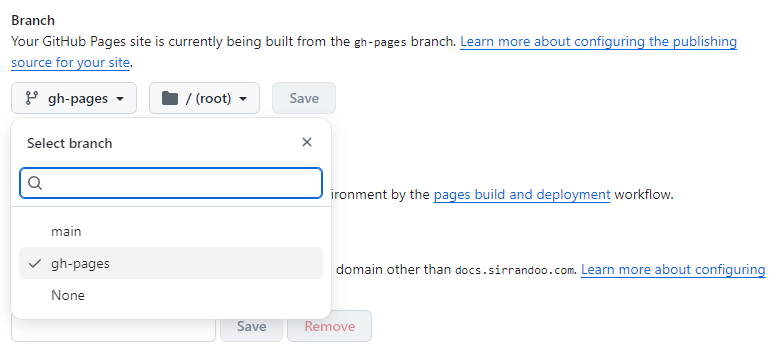
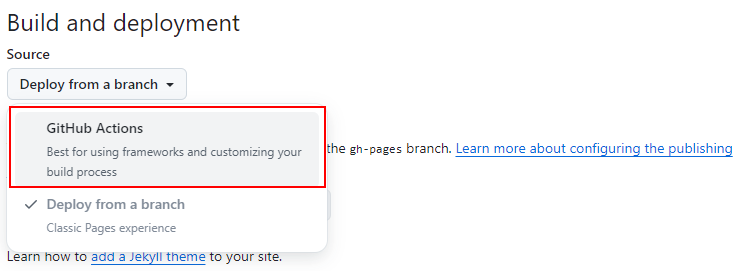
Reverted changes in last commit.
Last commit referenced changes made to the itemlist site's workflow, but these have since been reverted in favor of a less scuffed workflow. This "reversion" still requires users to properly configure their site.

diff --git a/itemlist.md b/itemlist.md
@@ -75,10 +75,13 @@ Next we'll be ensuring the item list is pulling the right files for the site. In
 need to navigate to the `Pages` section in the list of pages on the left.
 ![Pages settings in list]({{- "/assets/itemlist/pages_settings.png" | relative_url -}})
 
-Once we're in the pages settings, we can then look at the `Source` setting to ensure it's pulling from the
-`gh-pages` branch.
+Once we're in the pages settings, we can then look at the `Source` setting to ensure it's changed to the
+"GitHub Actions" option. The reason being is that the site automatically publishes itself when you change
+something, but if it were set to "Deploy from a branch," GitHub would automatically build the site for
+you, which doesn't support some things the site requires. You will always get an error about the theme
+the site uses ("Type on Strap") being missing, but that's entirely because GitHub doesn't download it.
 
-![Ensure the main branch is set]({{- "/assets/itemlist/page_source.png" | relative_url -}})
+![Ensure source is set to "GitHub Actions"]({{- "/assets/itemlist/page_source.png" | relative_url -}})
 
 The item list provides its own theme. You do not need to change it in the theme settings, and changing it
 may not have any meaningful effect.
